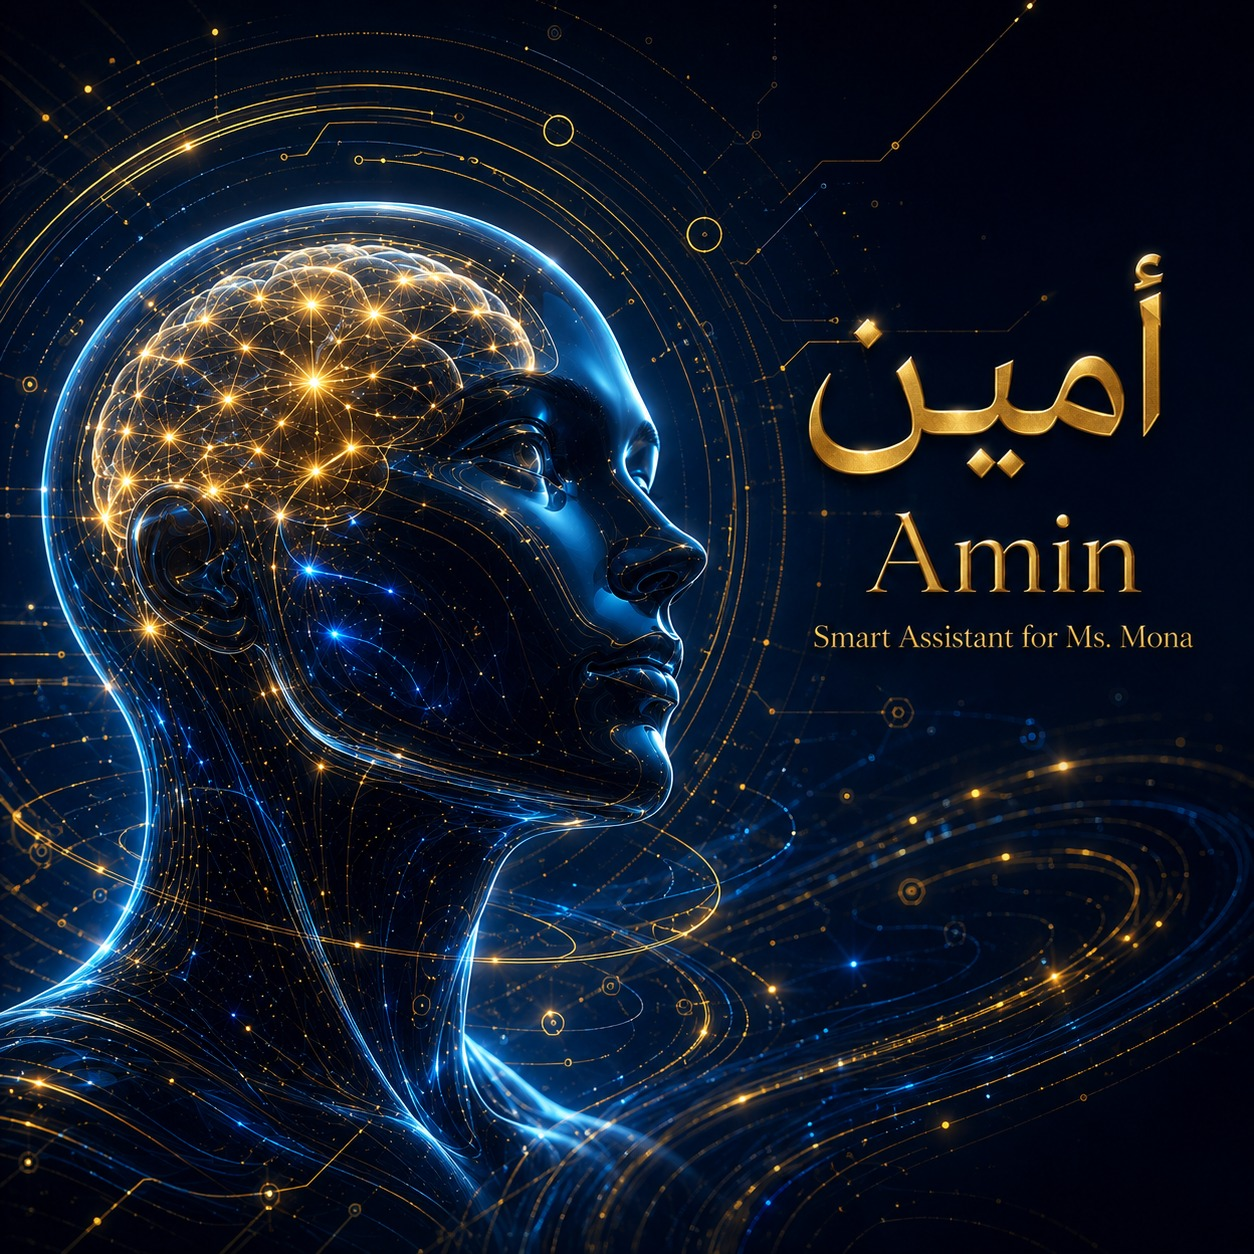
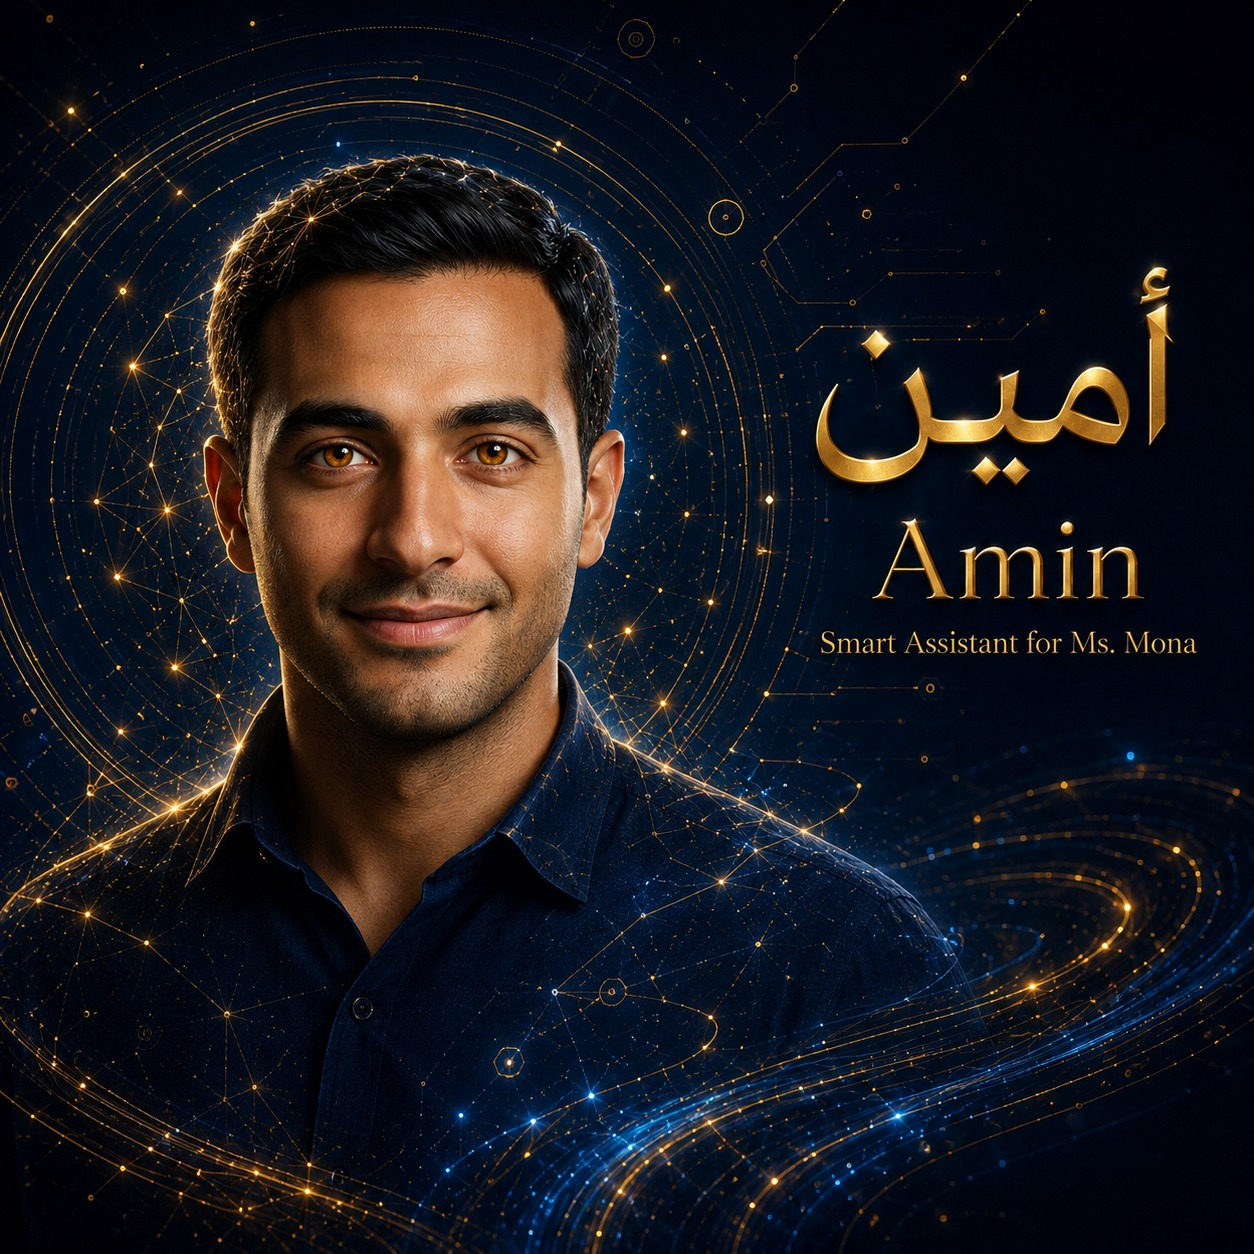
Adopt Mona's photorealistic portrait as Amin's official identity image
Replaces the earlier translucent wireframe artwork. Switched the shared
portrait blend mode from screen to normal — screen-blending a real face
photo washes skin tones out toward white; the 3D avatar canvas already
made this same call, so both renderers are now consistent.

This unblocks real dynamic Portrait Mode (frontal face, visible mouth and
eyes) — see the next commit for the evaluation of talking-portrait engines
against it and why none is wired up yet.

Claude-Session: https://claude.ai/code/session_01YSxPSibL2AZMWpDyBpZr5P

diff --git a/src/components/presence/AminPresence.css b/src/components/presence/AminPresence.css
@@ -56,12 +56,14 @@
      ("أمين"/"Amin") rather than splitting the loss evenly with the
      character's face on the left. */
   object-position: 68% 42%;
-  /* The artwork is glowing detail on a near-black field. Screen-blending
-     it onto the app's own navy/blue background — instead of laying it
-     down as an opaque rectangle — makes that black dissolve into
-     whatever is behind it, so the glow itself reads as fused into the
-     interface rather than a photo sitting on top of it. */
-  mix-blend-mode: screen;
+  /* Normal blend, not screen: this is a real opaque photograph (updated
+     2026-08-28 to Mona's chosen photorealistic portrait, replacing the
+     earlier translucent wireframe artwork that screen-blending was
+     designed for). Screen-blending a normal face photo would wash the
+     skin tones out toward white instead of dissolving into the
+     background — see the "-3d" rule below, which already made this same
+     call for the 3D avatar canvas. */
+  mix-blend-mode: normal;
   /* A gentle rim feather on top of the blend, so even the artwork's own
      non-black detail right at the frame's edge dissolves rather than
      ending in a visible straight line. */
@@ -80,13 +82,12 @@
   }
 }
 
-/* 3D Mode: a rendered, opaque bust — screen-blending it like the
-   translucent wireframe portrait would wash it out to nothing, so it gets
-   normal blending instead. The edge-feather mask and the glow/pulse
-   chrome around it stay identical to Portrait Mode, so switching modes
-   changes only what's inside the frame. */
+/* 3D Mode: the canvas needs its own clipping (a <canvas> isn't naturally
+   circular like the masked <img> above) — blend mode is already "normal"
+   on the shared base rule, so only the clip is added here. The edge-
+   feather mask and glow/pulse chrome stay identical to Portrait Mode, so
+   switching modes changes only what's inside the frame. */
 .amin-presence-portrait-3d {
-  mix-blend-mode: normal;
   overflow: hidden;
   border-radius: 50%;
 }
